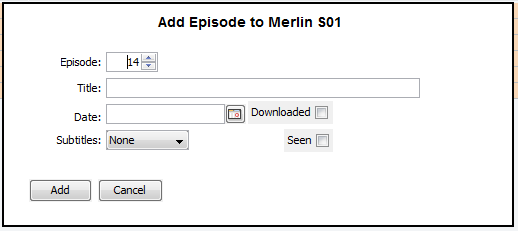
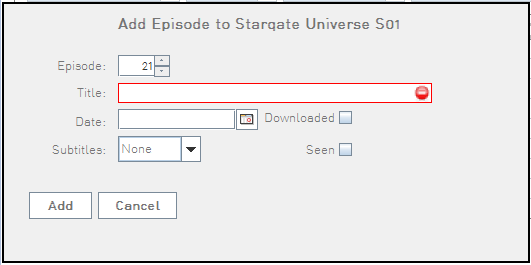
Updated help

Changed region(s): [[0.0927, 0.1818, 0.834, 0.6667], [0.0, 0.0, 1.0, 1.0], [0.2162, 0.0606, 0.7722, 0.1212]]

diff --git a/src/help/html/series_administration.html b/src/help/html/series_administration.html
@@ -7,47 +7,64 @@
         <li><b>Adding a series:</b><br>
           You can add a series in the following ways:
           <ul>
-            <li>Right clicking on the [<span class="link">Series Panel</span>] and choose "Add a new series"</li>
+            <li>Right clicking on the [<span class="link">Series Panel</span>]
+              and choose "Add a new series"</li>
             <li>Click on Toolbar menu Edit-Add series</li>
           </ul>
           Then the Add new series panel will show up:<br>
           <img src="../images/add_new_series.png"><br>
           <ul>
-            <li>Title is the title of the series (eg Stargate Atlantis)</li>
-            <li>Season is the series season (must be an integer) </li>
-            <li>Subs is a link to a web page with the series subs (eg http://www.tvsubtitles.net/tvshow-54-5.html) </li>
-            <li>Local Dir is the path to the directory that contains the series episodes</li>
-            <li>Screenshot is the screenshot that will be displayed below the series table when this series is selected.<br />
-            The screenshot file is saved in /images directory</li>
-            <li>TvSubtitle ID is the Id of the series in tvsubtitles.net.This can be found by clicking on the button
-            next to the textfield. Check [<span class="link">Internet Update</span>] for more info.</li>
-            <li>SubtitleOnline ID is the Id of the series in subtitleonline.com database.This can be found by clicking on the button
-            next to the textfield. Check [<span class="link">Internet Update</span>] for more info.</li>
-            <li>TvRage ID is the Id of the series in tvrage.com database.This can be found by clicking on the button
-            next to the textfield. Check [<span class="link">Internet Update</span>] for more info.</li>
-            </ul>
+            <li>Title is the title of the series (eg Stargate Atlantis) and is
+              required</li>
+            <li>Season is the series season. </li>
+            <li>Local Dir is the path to the directory that contains the series
+              files(videos and subtitles)</li>
+            <li>Screenshot is the screenshot that will be displayed below the
+              series table when this series is selected,
+              and in the schedule's calendar the dates that an episode is aired.<br />
+              The screenshot file is saved in /images directory.You can browse
+              your PC to add a custom screenshot clicking
+              the <img src="../../images/localDir_small.png"> icon, or you can
+              download a screenshot from www.tvrage.com by clicking the
+              <img src="../../images/internet_update_small.png"> icon.</li>
+            <li>TvSubtitle ID is the Id of the series in tvsubtitles.net.This can
+              be found by clicking on the
+              <img src="../../images/internet_update_small.png"> button
+              next to the textfield. Check [<span class="link">Internet
+                Update</span>] for more info.</li>
+            <li>SubtitleOnline ID is the Id of the series in subtitleonline.com 
+              database.This can be found by clicking on the
+              <img src="../../images/internet_update_small.png"> button
+              next to the textfield. Check [<span class="link">Internet
+                Update</span>] for more info.</li>
+            <li>TvRage ID is the Id of the series in tvrage.com database.
+              This can be found by clicking on the
+              <img src="../../images/internet_update_small.png"> button
+              next to the textfield. Check [<span class="link">Internet
+                Update</span>] for more info.</li>
+          </ul>
         </li>
         <li><b>Editing a series</b><br>
           You can edit a series in the following ways:
           <ul>
             <li>Right clicking on the series you want to edit on the [<span class="link">Series Panel</span>]
-            and choose "Edit series..."</li>
+              and choose "Edit series..."</li>
             <li>Select a series from the [<span class="link">Series Panel</span>] and then click on Toolbar
-            menu Edit-Edit series...</li>
+              menu Edit-Edit series...</li>
           </ul>
           Then the Edit new series panel will show up:<br>
           <img src="../images/edit_series.png"><br>
           This is the same as the Add new series panel except that the fields are already filled with the series info.
         </li>
         <li><b>Deleting a series</b>
-        You can delete a series in the following ways:
+          You can delete a series in the following ways:
           <ul>
             <li>Right clicking on the series you want to delete on the [<span class="link">Series Panel</span>]
-            and choose "Delete series..."</li>
+              and choose "Delete series..."</li>
             <li>Select a series from the [<span class="link">Series Panel</span>] and then click on Toolbar
-            menu Edit-Delete series...</li>
+              menu Edit-Delete series...</li>
           </ul>
-          </li>
+        </li>
       </ol>
-  </td></tr>
+    </td></tr>
 </table>

diff --git a/src/help/html/download_torrent.html b/src/help/html/download_torrent.html
@@ -1,25 +1,64 @@
 <link rel="stylesheet" href="styles.css" type="text/css" />
 <table align="left" class="mainTable">
-  <tr><th>Download Torrent</th></tr>
-  <tr>
-    <th><img src="../images/search_torrent.png"></th>
-  <tr>
-    <td align="center">Search torrent form</td>
+  <tr><th colspan="2">Download Torrent</th></tr>
+  <tr valign="top">
+    <th width="50%"><img src="../images/search_torrent_eztv.png"></th>
+    <th width="50%"><img src="../images/search_torrent_isohunt.png"></th>
   </tr>
   <tr>
-    <td>
-      Search torrent lets you search eztv.it for a torrent based on :
+    <td align="center">Download from EzTv</td>
+    <td align="center">Download from Isohunt</td>
+  </tr>
+  <tr>
+    <th colspan="2">EzTv</th>
+  </tr>
+  <tr>
+    <td colspan="2">
+      Download from EzTv form lets you search eztv.it for a torrent based on :
       <ul>
-        <li><b>The episode title :</b>Select from the combo box one of the series you already watch , or edit it to search
-        for a new series. Note that some series in eztv database are not entered with their official name , so if nothing is found
-        try another title (eg 'House MD' will return no results but 'House' will return.)</li>
+        <li><b>The episode title :</b>Select from the combo box one of the series
+          you already watch , or edit it to search
+          for a new series. Note that some series in eztv database are not entered
+          with their official name , so if nothing is found
+          try another title (eg 'House MD' will return no results but 'House' will return.)</li>
         <li><b>Exact name : </b>If name should be queried axactly as it is entered.</li>
         <li><b>Season : </b>The season to search (0 for all seasons)</li>
         <li><b>Episode : </b>The episode to search (0 for all episodes)</li>
         <li><b>Quality :</b>The quality to search</li>
       </ul>
-      After the search if one torrent is found it's saved in the myseries torrents subdirectory and then opened by the default
-      torrents application.If more results are found you are prompt to choose the one to save.
+      After the search if one torrent is found it's saved in the myseries
+      torrents subdirectory and then opened by the default
+      torrents application.If more results are found you are prompt to choose
+      the one to save.
+    </td>
+  </tr>
+  <tr>
+    <th colspan="2">Isohunt</th>
+  </tr>
+  <tr>
+    <td colspan="2">
+      Download from isohunt form lets you search isohunt.com for a torrent based on :
+      <ul>
+        <li><b>The episode title :</b>Select from the combo box one of the series
+          you already watch , or edit it to search
+          for a new series. Note that some series in eztv database are not entered
+          with their official name , so if nothing is found
+          try another title (eg 'House MD' will return no results but 'House' will return.)</li>
+        <li><b>Season : </b>The season to search</li>
+        <li><b>Episode : </b>The episode to search (0 for full season)</li>
+        <li><b>Quality :</b>The quality to search</li>
+        <li><b>Sort :</b>Sort the result ascending or descending based on Seeds (and peers),
+          age or size</li>
+      </ul>
+      After the search if one torrent is found it's saved in the myseries
+      torrents subdirectory and then opened by the default
+      torrents application.<br />
+      If more results are found the following table is displayed to let you choose
+      the one to save.</td>
+  </tr>
+  <tr>
+    <td colspan="2" align="center">
+      <img  src="../images/search_torrent_isohunt_results.png">
     </td>
   </tr>
 </table>

diff --git a/src/help/html/episodes_administration.html b/src/help/html/episodes_administration.html
@@ -7,28 +7,36 @@
         <li><b>Adding an episode:</b><br>
           You can add an episode in the following ways:
           <ul>
-            <li>Right clicking on the [<span class="link">Series Panel</span>] on the series you want to
-             add the episode to and choose "Add a new episode to..."</li>
+            <li>Right clicking on the [<span class="link">Series Panel</span>] 
+              on the series you want to  add the episode to and choose
+              "Add a new episode to..."</li>
             <li>Click on Toolbar menu Edit-Add a new episode to... after selecting a series in the
-            [<span class="link">Series Panel</span>]</li>
-            <li>right click on the [<span class="link">Episodes Panel</span>] of the series you want to add the episode to and choose
-            "Add a new episode to..."</li>
+              [<span class="link">Series Panel</span>]</li>
+            <li>right click on the [<span class="link">Episodes Panel</span>] of
+              the series you want to add the episode to and choose
+              "Add a new episode to..."</li>
           </ul>
           Then the Add a new episode panel will show up:<br>
           <img src="../images/add_new_episode.png"><br>
-            Episode is the episode number (it's auto filled with the next episode of the series in list)<br>
-            Title is the episode's title <br>
-            Date is the episodes aired date (It's format can be defined in the [<span class="link">Options</span>])<br>
-            Downloaded and seen define if the episode has been downloaded / seen and<br>
-            Subtitles it's about if subtitles have been downloaded (None - primary - secondary  - Both)<br><br>
+          Episode is the episode number (it's auto filled with the next episode of the series in list)<br>
+          Title is the episode's title (Required)<br>
+          Date is the episodes aired date (It's format can be defined in the [<span class="link">Options</span>])<br>
+          Downloaded and seen define if the episode has been downloaded / seen and<br>
+          Subtitles it's about if subtitles have been downloaded (None - primary - secondary  - Both)<br><br>
         </li>
         <li><b>Editing an episode:</b><br>
           You can add an episode simply by double clicking on the field of the episode to edit in
-          the [<span class="link">Episodes Panel</span>] and edit it's value.<br><br>
+          the [<span class="link">Episodes Panel</span>] or the
+          [<span class="link">Filters Panel</span>] and edit it's value.<br><br>
         </li>
         <li><b>Deleting an episode</b><br>
-        You can delete an episode by right clicking on the episode in the [<span class="link">Episodes Panel</span>] and choose "Delete Episode"
-          </li>
+          You can delete an episode by right clicking on the episode in the 
+          [<span class="link">Episodes Panel</span>] and choose "Delete Episode"</li>
+        <li><b>Deleting multiple episodes</b><br />
+          You can select multiple episodes in the
+          [<span class="link">Episodes Panel</span>] and  right click on the panel
+          to delete them all at once.
+        </li>
       </ol>
-  </td></tr>
+    </td></tr>
 </table>

diff --git a/src/help/html/import_episodes.html b/src/help/html/import_episodes.html
@@ -12,7 +12,7 @@
   <tr><td align="center">Import episodes to an old series</td></tr>
   <tr><td>
       If you want to import the episodes to a new series click on the new series checkbox and the
-      new series options will appear.<br>
+      new series options will be enabled.<br>
       You type the title and the season of the series and the new series will be created and the episodes
       will be imported.
   </td></tr>

diff --git a/src/help/html/create_database.html b/src/help/html/create_database.html
@@ -6,7 +6,7 @@
   </th></tr>
   <tr><td>
       You can bring up the create database dialog by clicking on MySerieS-Create Database menu item.<br>
-      You type the new database name and choose if you want it populated with demo data.<br>
+      You type the new database name and press the create button.<br>
       Note that you cannot create a database with the name of a database that already exists.
   </td></tr>
 </table>

diff --git a/src/help/Help.java b/src/help/Help.java
@@ -159,9 +159,9 @@ public class Help extends JFrame {
     treeNode2.add(treeNode3);
     treeNode3 = new javax.swing.tree.DefaultMutableTreeNode("Import Episodes");
     treeNode2.add(treeNode3);
-    treeNode3 = new javax.swing.tree.DefaultMutableTreeNode("Internet Update");
-    treeNode2.add(treeNode3);
     treeNode3 = new javax.swing.tree.DefaultMutableTreeNode("Download Torrent");
+    treeNode2.add(treeNode3);
+    treeNode3 = new javax.swing.tree.DefaultMutableTreeNode("Internet Update");
     treeNode2.add(treeNode3);
     treeNode3 = new javax.swing.tree.DefaultMutableTreeNode("Update Files");
     treeNode2.add(treeNode3);
